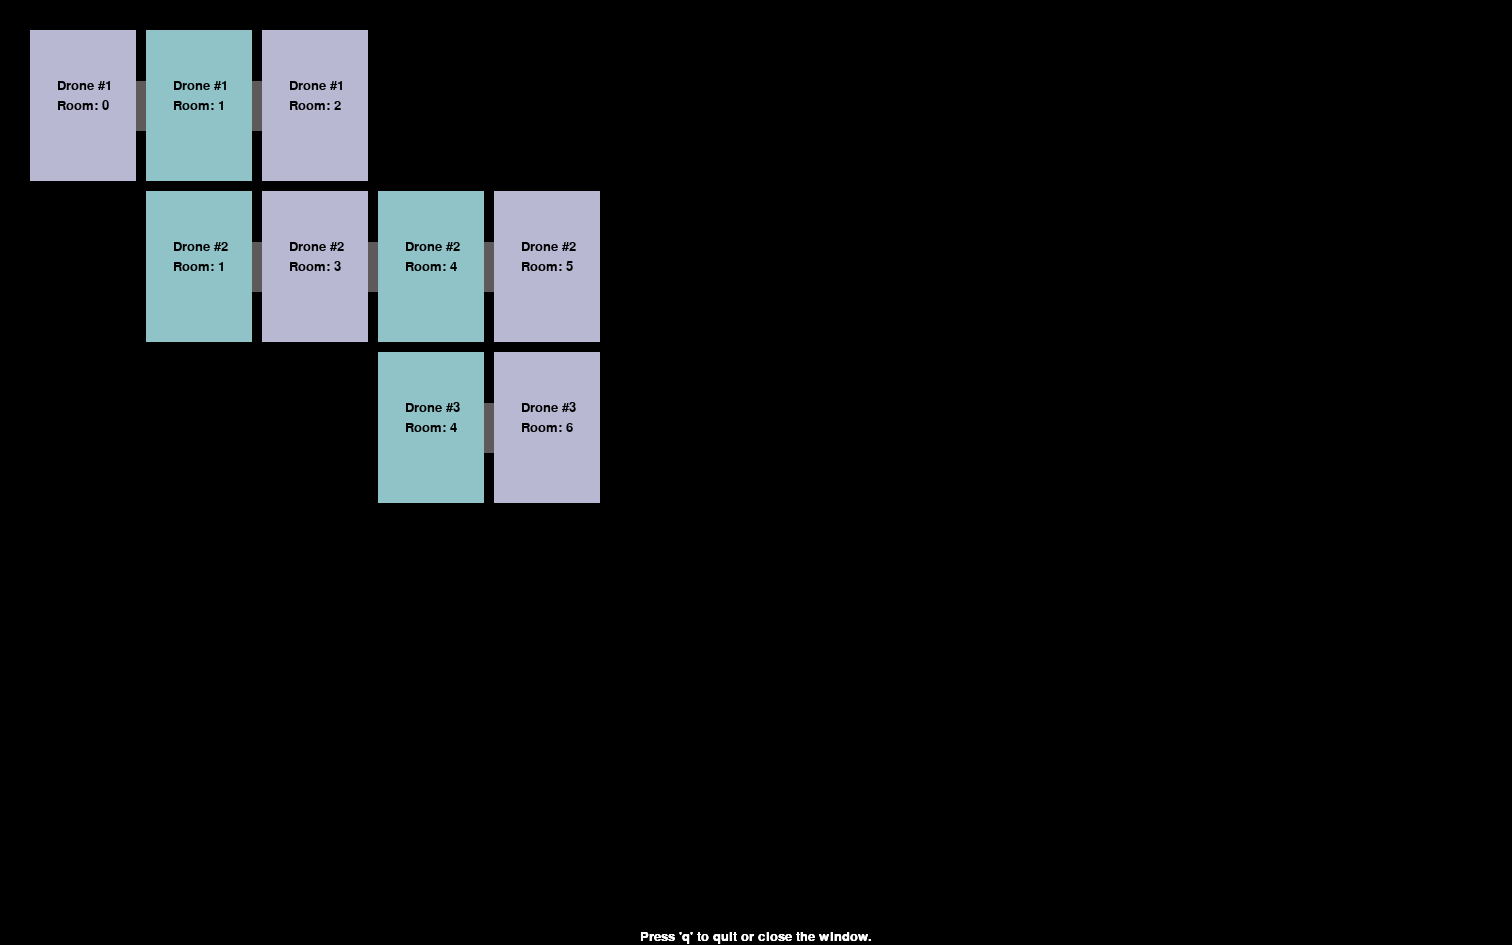
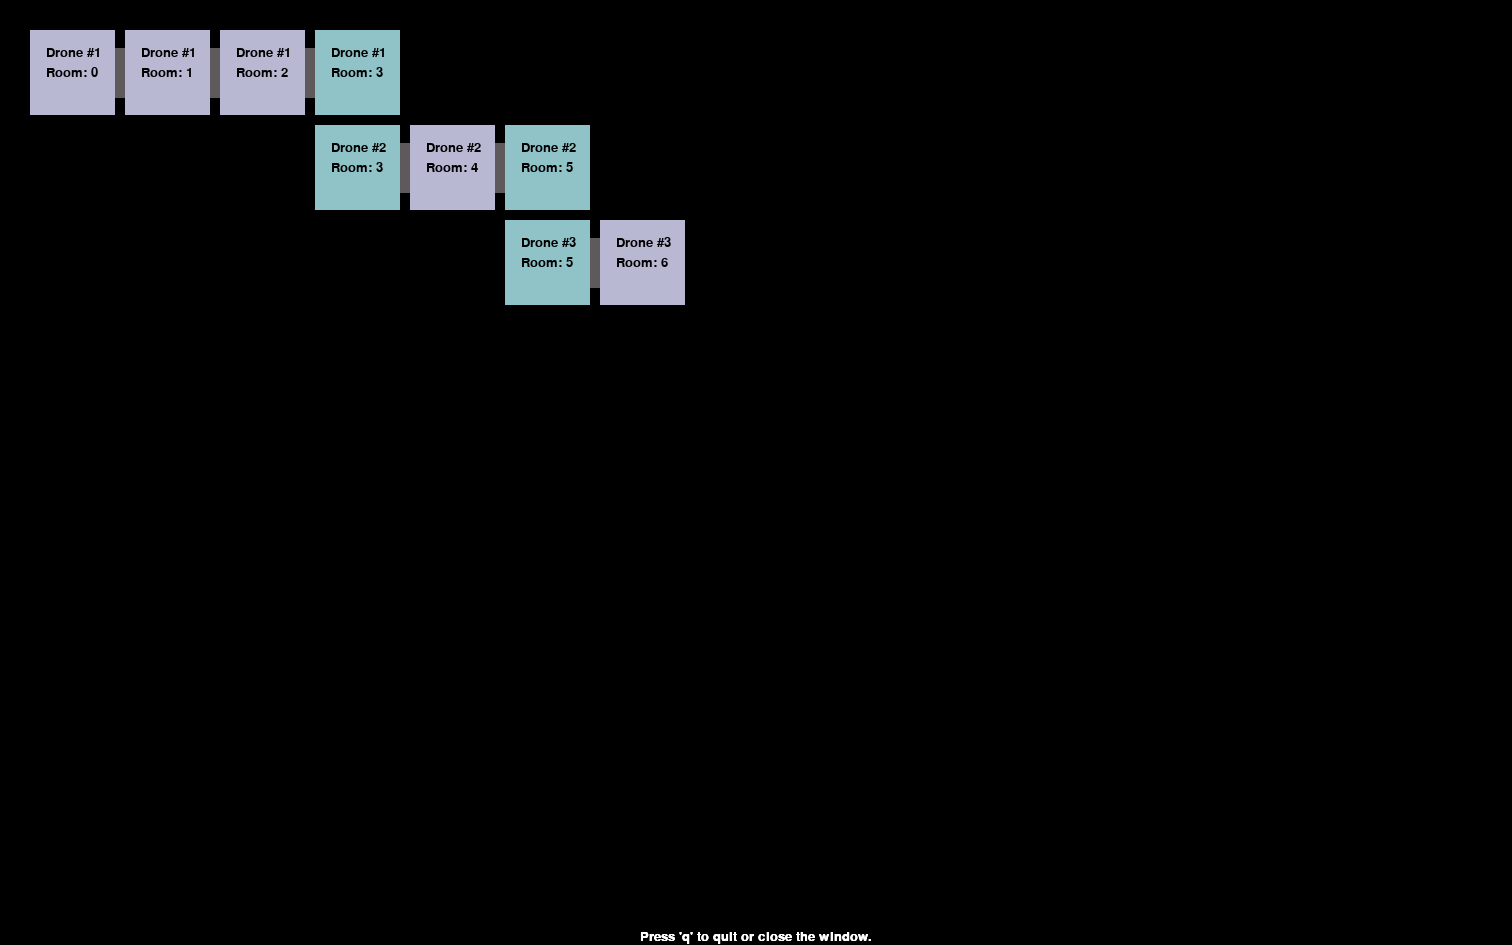
Integrate v1

Changed region(s): [[0.0, 0.0307, 0.4663, 0.5524]]

diff --git a/mapGenerator.py b/mapGenerator.py
@@ -4,6 +4,25 @@ import PathAnalyzer.pathAnalyzer as PathAnalyzer
 from PathAnalyzer.Graph import *
 import PathFinder.pathFinder as PathFinder
 
+#Folder Paths
+weightsPath = "/Users/kgonzale/Documents/Resources/TEC/TFG/UrbanMapGen/PathFinder/bestTS4.pt"
[2 lines of base64/hex data omitted]
+
+print("Starting Path Detection ...\n")
+pathFinder =  PathFinder.PathFinder(weightsPath,imagesFolder,outputFolder)
+roomsList = pathFinder.detectPathsInFolder()
+print("Rooms detected in images:\n")
+print(roomsList)
+print("\n")
+pathAnalyzer = PathAnalyzer.PathAnalyzer()
+pathAnalyzer.removeClosedPaths(roomsList)
+print(pathAnalyzer.openPathList)
+pathAnalyzer.createRoomsGraph()
+pathAnalyzer.graph.print_graph()
+roomsDict = pathAnalyzer.graph.adj_list
+data = pathAnalyzer.getConnectedRoomsByWeight(roomsDict)
+
 def create_rectangles(window, data):
     """
     Creates rectangles based on the provided dictionary and connects them with lines.
@@ -22,25 +41,22 @@ def create_rectangles(window, data):
     room_positions = {}  # Dictionary to store positions of previously drawn rectangles for each room
     window_width, window_height = window.get_size()
     num_rows = len(data)
-    max_rooms_per_group = max(len(rooms) for rooms in data.values()) if data else 0
-    rect_width = (window_width - (max_rooms_per_group - 1) * 10) // max_rooms_per_group
-    rect_height = window_height // len(data)
+    usable_width = 300 - 1.5 * margin
+    usable_height = 300 - 1.5 * margin
+
     font = pygame.font.SysFont(None, 20)  # Create a font object
     
     # Calculate usable area within the window after considering margins
-    usable_width = window_width - 2 * margin
-    usable_height = window_height - 2 * margin
+    rect_width = usable_width // num_rows
+    rect_height = usable_height // num_rows
 
     current_y = margin
     global total_drawable_height
     total_drawable_height = rect_height * num_rows  # Total height of all rectangles
     
     # Calculate usable area within the window after considering margins
-    usable_width = 500 - 1.5 * margin
-    usable_height = 500 - 1.5 * margin
+
     
-    rect_width = (usable_width - (max_rooms_per_group - 1) * 10) // max_rooms_per_group
-    rect_height = usable_height // num_rows
 
     current_y = margin
     for row_num, (room_num, connected_rooms) in enumerate(data.items()):
@@ -111,11 +127,6 @@ def save_window_image(window, filename="Map.png"):
 # Initialize Pygame
 pygame.init()
 
-#Folder Paths
-weightsPath = "/Users/kgonzale/Documents/Resources/TEC/TFG/UrbanMapGen/PathFinder/bestTS4.pt"
[2 lines of base64/hex data omitted]
-
 # Set window size
 window_width = 1000
 window_height = 1000
@@ -126,20 +137,10 @@ pygame.display.set_caption("Rectangles from Dictionary with Connections")
 
 # Sample data
 data = {
-    1: [0, 1, 2],
-    2: [1, 3, 4, 5],
-    3: [4, 6]
+    1: [0, 1, 2, 3],
+    2: [ 3, 4, 5],
+    3: [5, 6]
 }
-
-pathFinder =  PathFinder.PathFinder(weightsPath,imagesFolder,outputFolder)
-roomsList = pathFinder.detectPathsInFolder()
-pathAnalyzer = PathAnalyzer.PathAnalyzer()
-pathAnalyzer.removeClosedPaths(roomsList)
-pathAnalyzer.createRoomsGraph()
-roomsDict = pathAnalyzer.graph.adj_list
-#data = pathAnalyzer.getConnectedRoomsByWeight(roomsDict)
-
-
 
 # Create rectangles and connections
 create_rectangles(window, data)

diff --git a/PathAnalyzer/pathAnalyzer.py b/PathAnalyzer/pathAnalyzer.py
@@ -8,6 +8,12 @@ exampleList = [
     [6, []],
     [7, []]
     ]
+
+exampleList2 = [
+    [1, [[1, 'Open Path', [120, 329]], [2, 'Open Path', [368, 338]]]],
+    [2, []],
+    [3, []]
+    ]
 class PathAnalyzer:
     def __init__(self):
         self.openPathList = []
@@ -26,7 +32,6 @@ class PathAnalyzer:
                     pathList.append(([]))
             self.openPathList.append(pathList)
 
-
     def createRoomsGraph(self):
         rooms = self.openPathList
         pendingList = []
@@ -35,7 +40,7 @@ class PathAnalyzer:
         previous = 0
         weight = 1
         self.graph.add_node(0)
-        print("Room 0 Added")
+        print("Room added: 0")
         for room in rooms:
             
             print("Pending Nodes:",pendingList)
@@ -61,14 +66,11 @@ class PathAnalyzer:
                     else:
                         self.addToGraph(previous,counter,weight)
                     counter+=1
-
+                    
                     print("------PATH END--------")
             if(pendingFlag == False):
                 previous+=1
-
-
             print("----------------- \n")
-
                 
     def addToGraph(self,previous,current,weight):
         self.graph.add_node(current)
@@ -101,8 +103,7 @@ class PathAnalyzer:
                         connectedRooms.append(room)
             connectedWeight[weight] = connectedRooms
         return {key: [item for item in set(value)] for key, value in connectedWeight.items()}  # Set comprehension for unique values
-  
-  
+    
 class Graph:
   """
   This class represents a graph using an adjacency list.
@@ -281,18 +282,18 @@ class Graph:
     return paths                 
 #Test Code
 
-# a = PathAnalyzer()
-# list = a.removeClosedPaths(exampleList)
-# print(a.openPathList)
-# print("\n")
-# a.createRoomsGraph()
-# a.graph.print_graph()
-# print("--------------\n")
-# rooms = a.graph.adj_list
-# print("--------------\n")
-# print(rooms)
-# print("--------------\n")
-# print(a.getConnectedRoomsByWeight(rooms))
+a = PathAnalyzer()
+list = a.removeClosedPaths(exampleList2)
+print(a.openPathList)
+print("\n")
+a.createRoomsGraph()
+a.graph.print_graph()
+print("--------------\n")
+rooms = a.graph.adj_list
+print("--------------\n")
+print(rooms)
+print("--------------\n")
+print(a.getConnectedRoomsByWeight(rooms))
 
 
 

diff --git a/PathFinder/pathFinder.py b/PathFinder/pathFinder.py
@@ -2,10 +2,6 @@ import os
 from ultralytics import YOLO
 import cv2
 
-#Folder Paths
-weightsPath = "/Users/kgonzale/Documents/Resources/TEC/TFG/UrbanMapGen/PathFinder/bestTS4.pt"
[2 lines of base64/hex data omitted]
 
 #Class Types
 classType = {
@@ -63,10 +59,13 @@ class PathFinder:
       imageList = []
       imageId = 1
       pathId = 1
-      for filename in os.listdir(self.imagesFolder):
+      pictures = sorted(os.listdir(self.imagesFolder))
+      print(pictures)
+      for filename in pictures:
           pathList = []
-          if filename.endswith(".jpg") or filename.endswith(".png"):  # Check for image extensions
+          if filename.endswith(".jpg") or filename.endswith(".png") or filename.endswith(".PNG")  or filename.endswith(".JPG"):  # Check for image extensions
               full_path = os.path.join(self.imagesFolder, filename)
+              print("Analizing image " + filename)
               results = self.model.predict(full_path)  # Predict on each image
               result = results[0]
               img = cv2.imread(full_path)
@@ -81,16 +80,13 @@ class PathFinder:
                   cv2.rectangle(img, (x1, y1), (x2, y2), (0, 230, 0), 2)
                   cv2.putText(img, label, (x1, y2 + 20), cv2.FONT_HERSHEY_SIMPLEX, 0.7, (0, 230, 0), 2)
                   pathId += 1
-              print(" ---- PATH LIST -----")
-              print(pathList)
-              print(sorted(pathList,key=lambda x: x[2][0]))
               imageList.append([imageId,sorted(pathList,key=lambda x: x[2][0])])
               # Save modified image
               output = f"{self.outputFolder}/modified_{os.path.basename(full_path)}"
               cv2.imwrite(output, img)
               imageId += 1
 
-              print(f"\n Image saved to: {output}")
+              #print(f"\n Image saved to: {output}")
       return imageList
 
 #test Code
